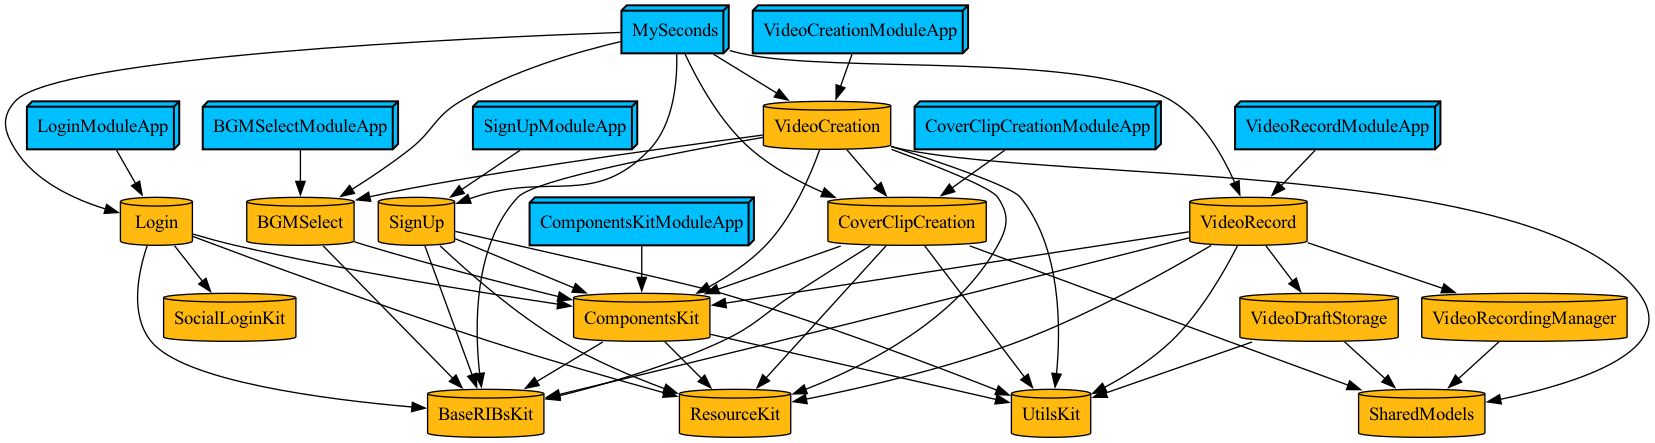
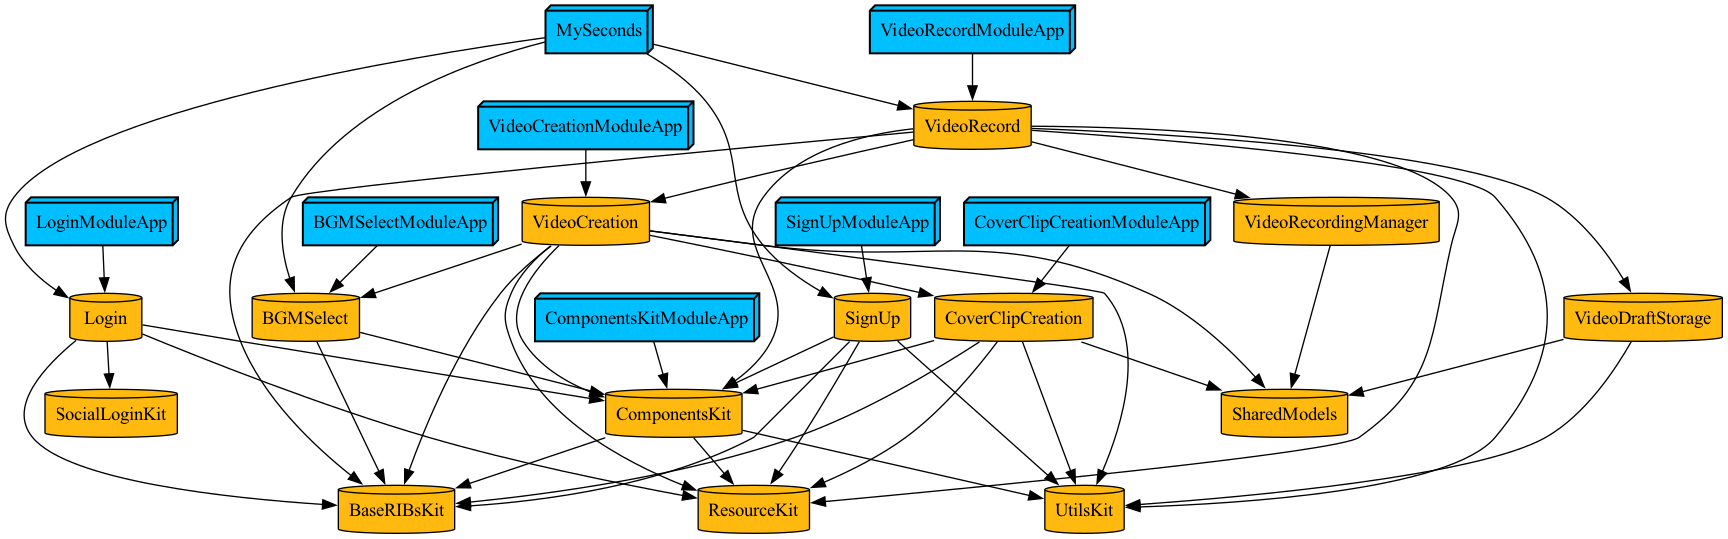
[MS-39][FIX]중복 의존 제거

diff --git a/Project.swift b/Project.swift
@@ -77,10 +77,8 @@ let project = Project(
             ],
             dependencies: [
                 Modules.Features.bgmSelect.dependency,
-                Modules.Features.coverClipCreation.dependency,
                 Modules.Features.login.dependency,
                 Modules.Features.signUp.dependency,
-                Modules.Features.videoCreation.dependency,
                 Modules.Features.videoRecord.dependency
             ],
             settings: .settings(

diff --git a/MySeconds/Features/VideoRecord/Project.swift b/MySeconds/Features/VideoRecord/Project.swift
@@ -26,6 +26,7 @@ let project = Project(
                 Modules.Shared.componentsKit.dependency,
                 Modules.Shared.resourceKit.dependency,
                 Modules.Shared.utilsKit.dependency,
+                Modules.Features.videoCreation.dependency,
                 Modules.Services.videoDraftStorage.dependency,
                 Modules.Services.videoRecordingManager.dependency
             ]
